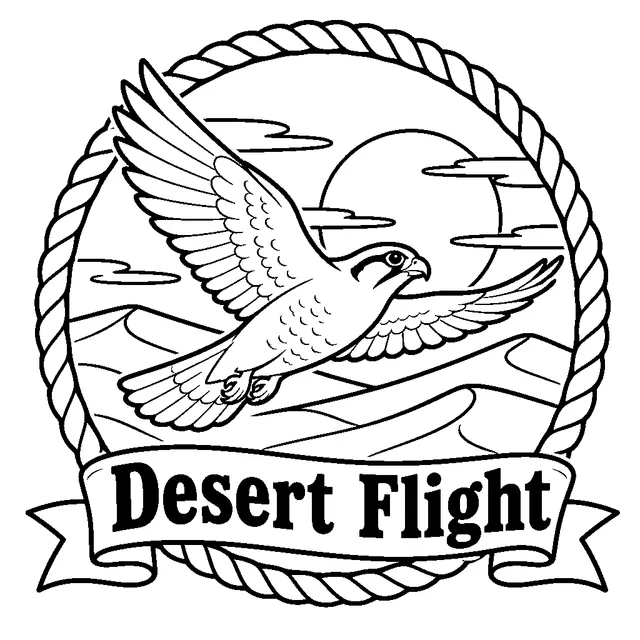
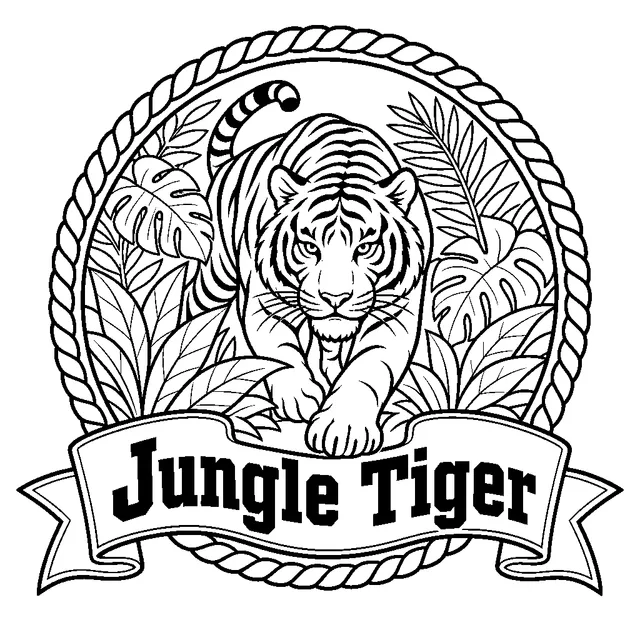
Create page styles: one idea (a tiger) in four styles and four palettes
Replaces the falcons, which all shared the Sunset palette. Classic in true-to-life colour, Retro badge in ocean
blues, Tattoo flash in tropical, Cute mascot in neon. The idea and palettes live in lib/design/style-examples.ts.

diff --git a/scripts/style-examples.ts b/scripts/style-examples.ts
@@ -7,17 +7,16 @@ import { db } from "../src/lib/db/client";
 import { designs, users } from "../src/lib/db/schema";
 import { colourDesign, createDesign } from "../src/lib/design/service";
 import { get } from "../src/lib/storage";
+import { STYLE_EXAMPLES, STYLE_IDEA } from "../src/lib/design/style-examples";
 
-// The Create page's "One idea, every style": one idea drawn and coloured by the studio in several styles, the
-// way a designer would make them, saved as public/examples/styles/<style>-shade.webp and -sun.webp.
-// Uses the image AI: 2 images per style. Usage:
-//   PGLITE_DIR=<a scratch folder> AI_PROVIDER=openai npx tsx --env-file=.env.local scripts/style-examples.ts [style ...]
-export const STYLE_IDEA = "A falcon over the dunes at sunset";
-export const STYLE_EXAMPLES = ["classic", "badge", "tattoo", "mascot"];
-
+// The Create page's style examples: the idea drawn and coloured by the studio in each style and palette, the way a
+// designer would make it, saved as public/examples/styles/<style>-shade.webp and -sun.webp.
+// Uses the image AI: 2 images per style. Usage (a scratch database, so the dev server's is left alone):
+//   PGLITE_DIR=.pglite-styles AI_PROVIDER=openai npx tsx --env-file=.env.local scripts/style-examples.ts [style ...]
 async function main() {
   if (imageProvider().name === "mock") throw new Error("Run with AI_PROVIDER=openai: the mock would draw placeholders");
-  const styles = process.argv.slice(2).length ? process.argv.slice(2) : STYLE_EXAMPLES;
+  const only = process.argv.slice(2);
+  const examples = only.length ? STYLE_EXAMPLES.filter((x) => only.includes(x.style)) : STYLE_EXAMPLES;
   const out = path.join(process.cwd(), "public/examples/styles");
   mkdirSync(out, { recursive: true });
   const d = await db();
@@ -28,14 +27,14 @@ async function main() {
   const save = async (key: string, file: string) =>
     sharp(await get(key)).flatten({ background: "#ffffff" }).resize(640, 640, { fit: "contain", background: "#ffffff" })
       .webp({ quality: 82 }).toFile(path.join(out, file));
-  for (const style of styles) {
-    process.stdout.write(`${style}: drawing… `);
-    const design = await createDesign(user.id, { title: STYLE_IDEA, presetId: style, idea: STYLE_IDEA });
+  for (const x of examples) {
+    process.stdout.write(`${x.style}: drawing… `);
+    const design = await createDesign(user.id, { title: STYLE_IDEA, presetId: x.style, idea: STYLE_IDEA });
     process.stdout.write("colouring… ");
-    await colourDesign(user.id, design.id, { palette: "sunset" });
+    await colourDesign(user.id, design.id, { palette: x.palette });
     const [done] = await d.select().from(designs).where(eq(designs.id, design.id));
-    await save(done.outlineKey ?? done.lineArtKey!, `${style}-shade.webp`);
-    await save(done.compositeKey!, `${style}-sun.webp`);
+    await save(done.outlineKey ?? done.lineArtKey!, `${x.style}-shade.webp`);
+    await save(done.compositeKey!, `${x.style}-sun.webp`);
     console.log("saved");
   }
 }

diff --git a/src/app/join/page.tsx b/src/app/join/page.tsx
@@ -22,12 +22,10 @@ import { IdeaShowcase } from "./IdeaShowcase";
 import { PRESETS } from "@/lib/ai/presets";
 import { pendingSketchUrl } from "@/lib/design/pending-sketch";
 import { visitorMarket } from "@/lib/markets";
+import { STYLE_EXAMPLES, STYLE_IDEA } from "@/lib/design/style-examples";
 import "./create.css";
 import "../designers/designers.css";
 
-// "One idea, every style": the same idea drawn by the studio in four styles (public/examples/styles).
-const STYLE_IDEA = "A falcon over the dunes at sunset";
-const STYLE_TILES = ["classic", "badge", "tattoo", "mascot"];
 const pct = (bps: number) => `${bps / 100}%`;
 // "AED 1,290" rather than "AED 1,290.00" for round amounts.
 const whole = (cents: number, currency: string) => money(cents, currency).replace(/\.00$/, "");
@@ -104,10 +102,10 @@ export default async function Join({ searchParams }: { searchParams: Promise<{ i
           the idea box with that style chosen. Made by scripts/style-examples.ts. */}
       <section className="style-strip" aria-labelledby="style-strip-h">
         <div className="eyebrow">One idea, every style</div>
-        <h2 id="style-strip-h">Same idea. Your pick of style.</h2>
-        <p className="muted style-idea">&ldquo;{STYLE_IDEA}&rdquo;, drawn by the studio four ways. Hover or tap one to step it into the sun.</p>
+        <h2 id="style-strip-h">Same idea. Your pick of style and colour.</h2>
+        <p className="muted style-idea">&ldquo;{STYLE_IDEA}&rdquo;, drawn by the studio four ways, each in its own colours. Hover or tap one to step it into the sun.</p>
         <div className="style-tiles">
-          {STYLE_TILES.map((id) => {
+          {STYLE_EXAMPLES.map(({ style: id }) => {
             const p = PRESETS.find((x) => x.id === id)!;
             return (
               <Link key={id} href={`/join?${new URLSearchParams({ idea: STYLE_IDEA, style: id })}#join-idea`} className="tile style-tile">

diff --git a/src/lib/design/style-examples.ts b/src/lib/design/style-examples.ts
@@ -1,0 +1,11 @@
+// The Create page's "One idea, every style": one idea drawn and coloured by the studio in four styles and four
+// palettes, so what changes is how it's drawn and coloured. Real studio output, made by scripts/style-examples.ts
+// into public/examples/styles/<style>-shade.webp and -sun.webp; change an entry and run it again for that style.
+export const STYLE_IDEA = "A tiger prowling through the jungle";
+
+export const STYLE_EXAMPLES = [
+  { style: "classic", palette: "natural" },
+  { style: "badge", palette: "ocean" },
+  { style: "tattoo", palette: "tropical" },
+  { style: "mascot", palette: "neon" },
+];
